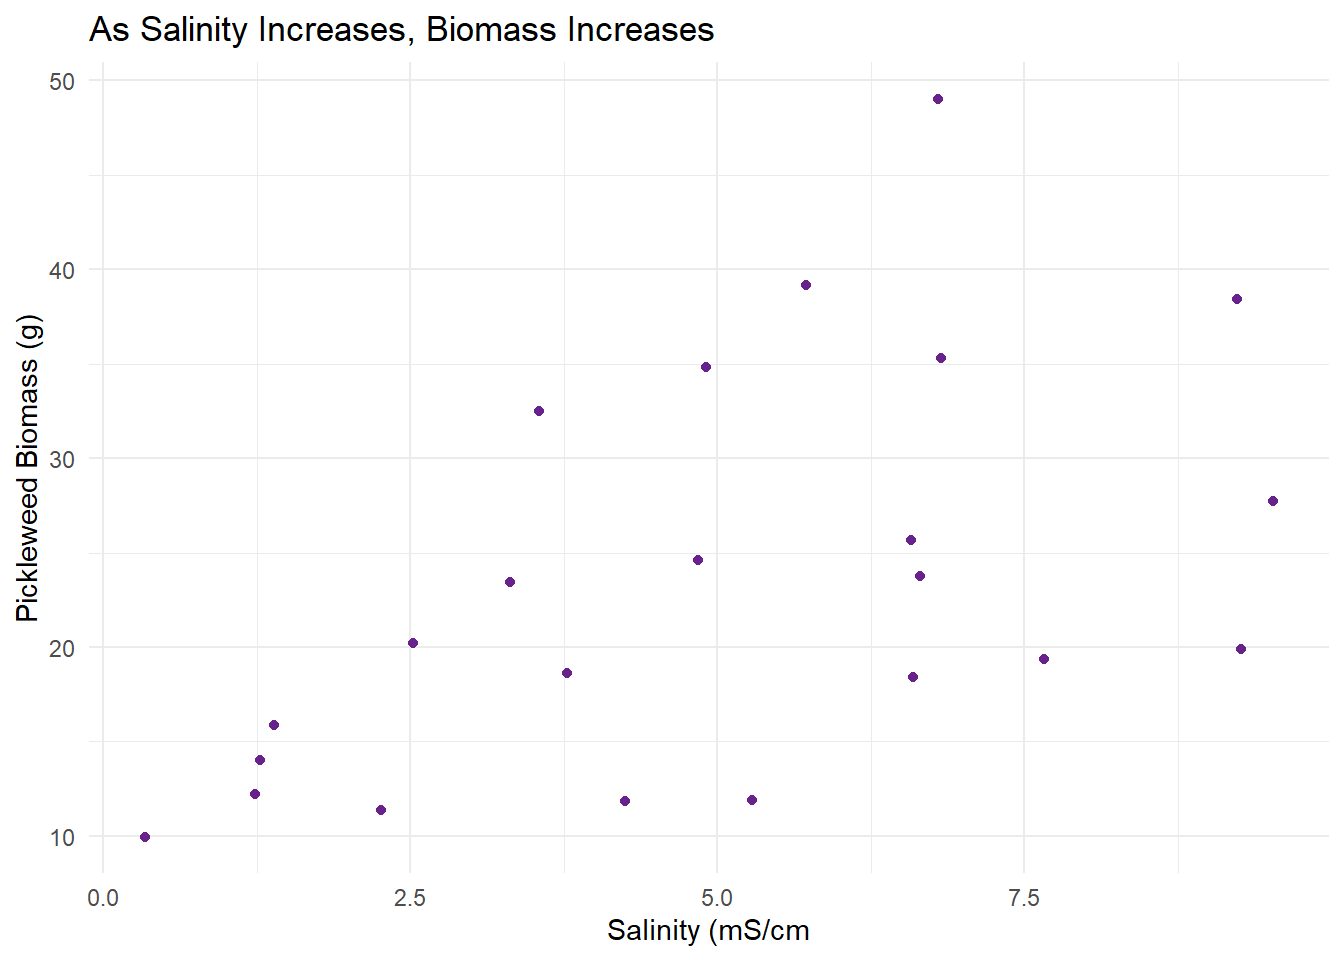
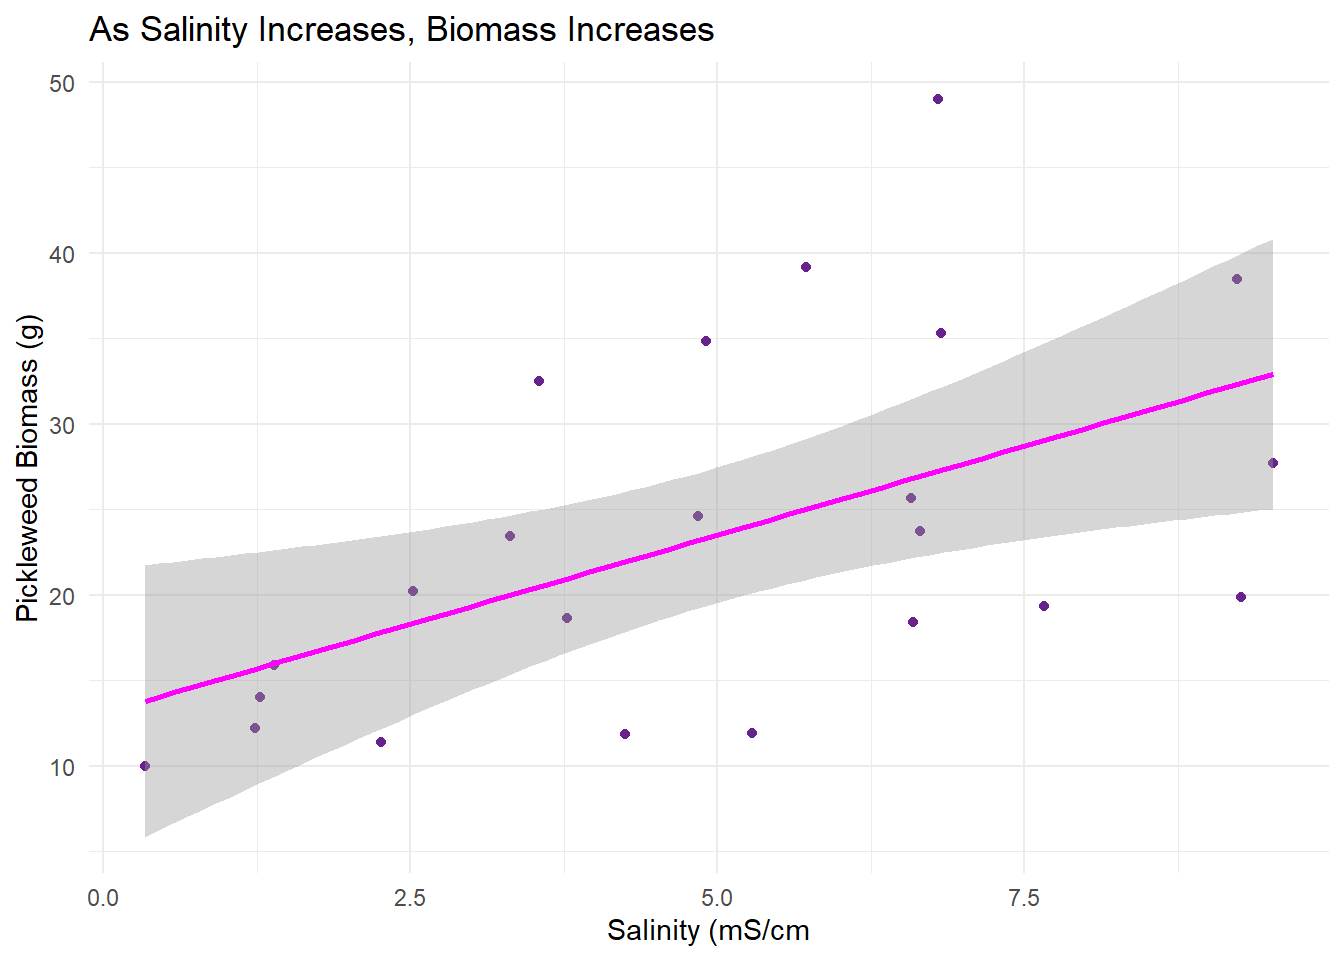
added line to scatterplot and began describing test results

diff --git a/code/Homework 3 193DS.html b/code/Homework 3 193DS.html
@@ -73,6 +73,35 @@ pre > code.sourceCode > span > a:first-child::before { text-decoration: underlin
 <link href="Homework 3 193DS_files/libs/bootstrap/bootstrap-icons.css" rel="stylesheet">
 <link href="Homework 3 193DS_files/libs/bootstrap/bootstrap-9e3ffae467580fdb927a41352e75a2e0.min.css" rel="stylesheet" append-hash="true" id="quarto-bootstrap" data-mode="light">
 
+  <script src="https://cdnjs.cloudflare.com/polyfill/v3/polyfill.min.js?features=es6"></script>
+  <script src="https://cdn.jsdelivr.net/npm/mathjax@3/es5/tex-chtml-full.js" type="text/javascript"></script>
+
+<script type="text/javascript">
+const typesetMath = (el) => {
+  if (window.MathJax) {
+    // MathJax Typeset
+    window.MathJax.typeset([el]);
+  } else if (window.katex) {
+    // KaTeX Render
+    var mathElements = el.getElementsByClassName("math");
+    var macros = [];
+    for (var i = 0; i < mathElements.length; i++) {
+      var texText = mathElements[i].firstChild;
+      if (mathElements[i].tagName == "SPAN" && texText && texText.data) {
+        window.katex.render(texText.data, mathElements[i], {
+          displayMode: mathElements[i].classList.contains('display'),
+          throwOnError: false,
+          macros: macros,
+          fleqn: false
+        });
+      }
+    }
+  }
+}
+window.Quarto = {
+  typesetMath
+};
+</script>
 
 </head>
 
@@ -147,8 +176,10 @@ pre > code.sourceCode > span > a:first-child::before { text-decoration: underlin
 <span id="cb2-5"><a href="#cb2-5" aria-hidden="true" tabindex="-1"></a>  <span class="fu">labs</span>(<span class="at">x =</span> <span class="st">"Salinity (mS/cm"</span>, <span class="co"># labelling x axis</span></span>
 <span id="cb2-6"><a href="#cb2-6" aria-hidden="true" tabindex="-1"></a>       <span class="at">y =</span> <span class="st">"Pickleweed Biomass (g)"</span>, <span class="co"># labelling y axis</span></span>
 <span id="cb2-7"><a href="#cb2-7" aria-hidden="true" tabindex="-1"></a>       <span class="at">title =</span> <span class="st">"As Salinity Increases, Biomass Increases"</span>) <span class="sc">+</span> <span class="co"># making a title</span></span>
-<span id="cb2-8"><a href="#cb2-8" aria-hidden="true" tabindex="-1"></a>  <span class="fu">theme</span>(<span class="at">plot.title.position =</span> <span class="st">"plot"</span>) <span class="sc">+</span> <span class="co"># changing title position</span></span>
-<span id="cb2-9"><a href="#cb2-9" aria-hidden="true" tabindex="-1"></a>  <span class="fu">theme_minimal</span>() <span class="co"># changing theme to minimal</span></span></code></pre></div><button title="Copy to Clipboard" class="code-copy-button"><i class="bi"></i></button></div>
+<span id="cb2-8"><a href="#cb2-8" aria-hidden="true" tabindex="-1"></a>  <span class="fu">geom_smooth</span>(<span class="at">method =</span> <span class="st">"lm"</span>, <span class="co"># adding linear model line</span></span>
+<span id="cb2-9"><a href="#cb2-9" aria-hidden="true" tabindex="-1"></a>              <span class="at">color =</span> <span class="st">"magenta"</span>) <span class="sc">+</span></span>
+<span id="cb2-10"><a href="#cb2-10" aria-hidden="true" tabindex="-1"></a>  <span class="fu">theme</span>(<span class="at">plot.title.position =</span> <span class="st">"plot"</span>) <span class="sc">+</span> <span class="co"># changing title position</span></span>
+<span id="cb2-11"><a href="#cb2-11" aria-hidden="true" tabindex="-1"></a>  <span class="fu">theme_minimal</span>() <span class="co"># changing theme to minimal</span></span></code></pre></div><button title="Copy to Clipboard" class="code-copy-button"><i class="bi"></i></button></div>
 <div class="cell-output-display">
 <div>
 <figure class="figure">
@@ -189,12 +220,8 @@ F-statistic: 8.398 on 1 and 21 DF,  p-value: 0.008605</code></pre>
 </div>
 </div>
 <div class="cell">
-<div class="code-copy-outer-scaffold"><div class="sourceCode cell-code" id="cb5"><pre class="sourceCode r code-with-copy"><code class="sourceCode r"><span id="cb5-1"><a href="#cb5-1" aria-hidden="true" tabindex="-1"></a>salinity_pred <span class="ot">&lt;-</span> ggeffects<span class="sc">::</span><span class="fu">ggpredict</span>(salinity_lm, <span class="co"># making predictions based on linear model</span></span>
-<span id="cb5-2"><a href="#cb5-2" aria-hidden="true" tabindex="-1"></a>                           <span class="at">terms =</span> <span class="st">"salinity_mS_cm"</span>) </span></code></pre></div><button title="Copy to Clipboard" class="code-copy-button"><i class="bi"></i></button></div>
-</div>
-<div class="cell">
-<div class="code-copy-outer-scaffold"><div class="sourceCode cell-code" id="cb6"><pre class="sourceCode r code-with-copy"><code class="sourceCode r"><span id="cb6-1"><a href="#cb6-1" aria-hidden="true" tabindex="-1"></a><span class="fu">par</span>(<span class="at">mfrow =</span> <span class="fu">c</span>(<span class="dv">2</span>,<span class="dv">2</span>)) <span class="co"># making residual plots to check assumptions</span></span>
-<span id="cb6-2"><a href="#cb6-2" aria-hidden="true" tabindex="-1"></a><span class="fu">plot</span>(salinity_lm)</span></code></pre></div><button title="Copy to Clipboard" class="code-copy-button"><i class="bi"></i></button></div>
+<div class="code-copy-outer-scaffold"><div class="sourceCode cell-code" id="cb5"><pre class="sourceCode r code-with-copy"><code class="sourceCode r"><span id="cb5-1"><a href="#cb5-1" aria-hidden="true" tabindex="-1"></a><span class="fu">par</span>(<span class="at">mfrow =</span> <span class="fu">c</span>(<span class="dv">2</span>,<span class="dv">2</span>)) <span class="co"># making residual plots to check assumptions</span></span>
+<span id="cb5-2"><a href="#cb5-2" aria-hidden="true" tabindex="-1"></a><span class="fu">plot</span>(salinity_lm)</span></code></pre></div><button title="Copy to Clipboard" class="code-copy-button"><i class="bi"></i></button></div>
 <div class="cell-output-display">
 <div>
 <figure class="figure">
@@ -204,24 +231,9 @@ F-statistic: 8.398 on 1 and 21 DF,  p-value: 0.008605</code></pre>
 </div>
 </div>
 <p>Checking Assumptions:</p>
-<p>The diagnostic plots look good. Residuals look homoscedastic (constant variance) based on residuals vs fitted plot and scale location plot. Residuals (errors) appear to be normally distributed based on q-q plot.</p>
-<div class="cell">
-<div class="code-copy-outer-scaffold"><div class="sourceCode cell-code" id="cb7"><pre class="sourceCode r code-with-copy"><code class="sourceCode r"><span id="cb7-1"><a href="#cb7-1" aria-hidden="true" tabindex="-1"></a><span class="fu">cor.test</span>(salinity<span class="sc">$</span>salinity_mS_cm, salinity<span class="sc">$</span>pickleweed,</span>
-<span id="cb7-2"><a href="#cb7-2" aria-hidden="true" tabindex="-1"></a>         <span class="at">method =</span> <span class="st">"pearson"</span>)</span></code></pre></div><button title="Copy to Clipboard" class="code-copy-button"><i class="bi"></i></button></div>
-<div class="cell-output cell-output-stdout">
-<pre><code>
-    Pearson's product-moment correlation
-
-data:  salinity$salinity_mS_cm and salinity$pickleweed
-t = 2.8979, df = 21, p-value = 0.008605
-alternative hypothesis: true correlation is not equal to 0
-95 percent confidence interval:
- 0.1568265 0.7757682
-sample estimates:
-      cor 
-0.5344778 </code></pre>
-</div>
-</div>
+<p>The diagnostic plots look good. Residuals look homoscedastic (constant variance) based on residuals vs fitted plot and scale location plot. Residuals (errors) appear to be normally distributed based on q-q plot. Linearity can be assumed based on scatterplot including line (seen above)</p>
+<p>Test:</p>
+<p>We found evidence to suggest that soil salinity affected pickleweed biomass. (ordinary least squares: F(1,21) = 8.4, p = 0.009, <span class="math inline">\(\alpha\)</span> = 0.05, adjusted R^2 = 0.25)</p>
 </section>
 </section>
 
